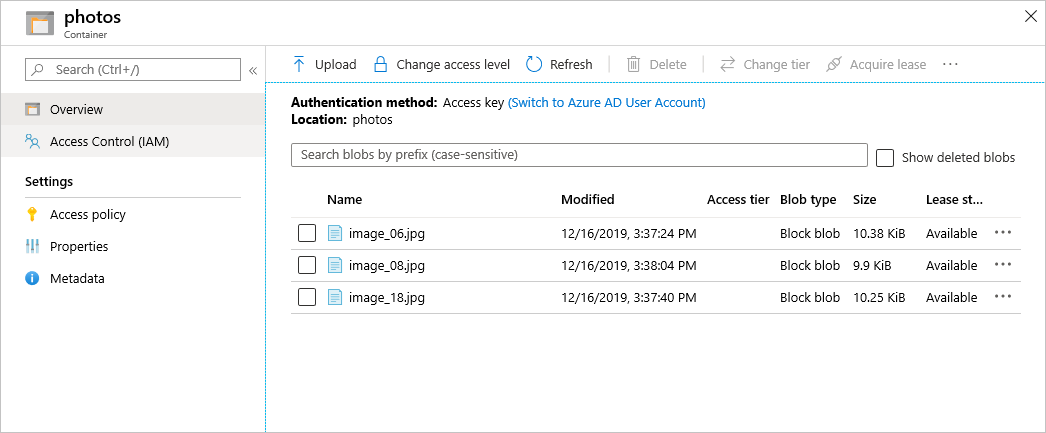
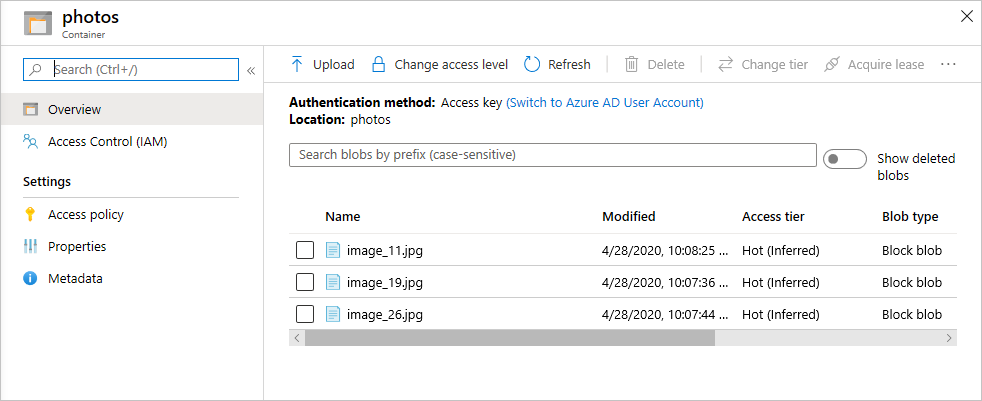
Updated polar-bear module

diff --git a/Combat Climate Change with AI and Azure/includes/1-azure-storage.md b/Combat Climate Change with AI and Azure/includes/1-azure-storage.md
@@ -260,9 +260,9 @@ The next task is to create a Node.js app that simulates an array of motion-activ
 1. Over the course of the next minute or two, confirm that you see output similar to the following. Each line corresponds to a photo uploaded to blob storage by one of the virtual cameras:
 
 	```
-	polar_cam_0001: Uploaded image_06.jpg
-	polar_cam_0005: Uploaded image_18.jpg
-	polar_cam_0003: Uploaded image_08.jpg
+	polar_cam_0001: Uploaded image_11.jpg
+	polar_cam_0005: Uploaded image_26.jpg
+	polar_cam_0003: Uploaded image_19.jpg
 	```
 
 	Because **run.js** uses a random-number generator to decide which photos to upload and when to upload them, your results will differ from the ones shown above.
